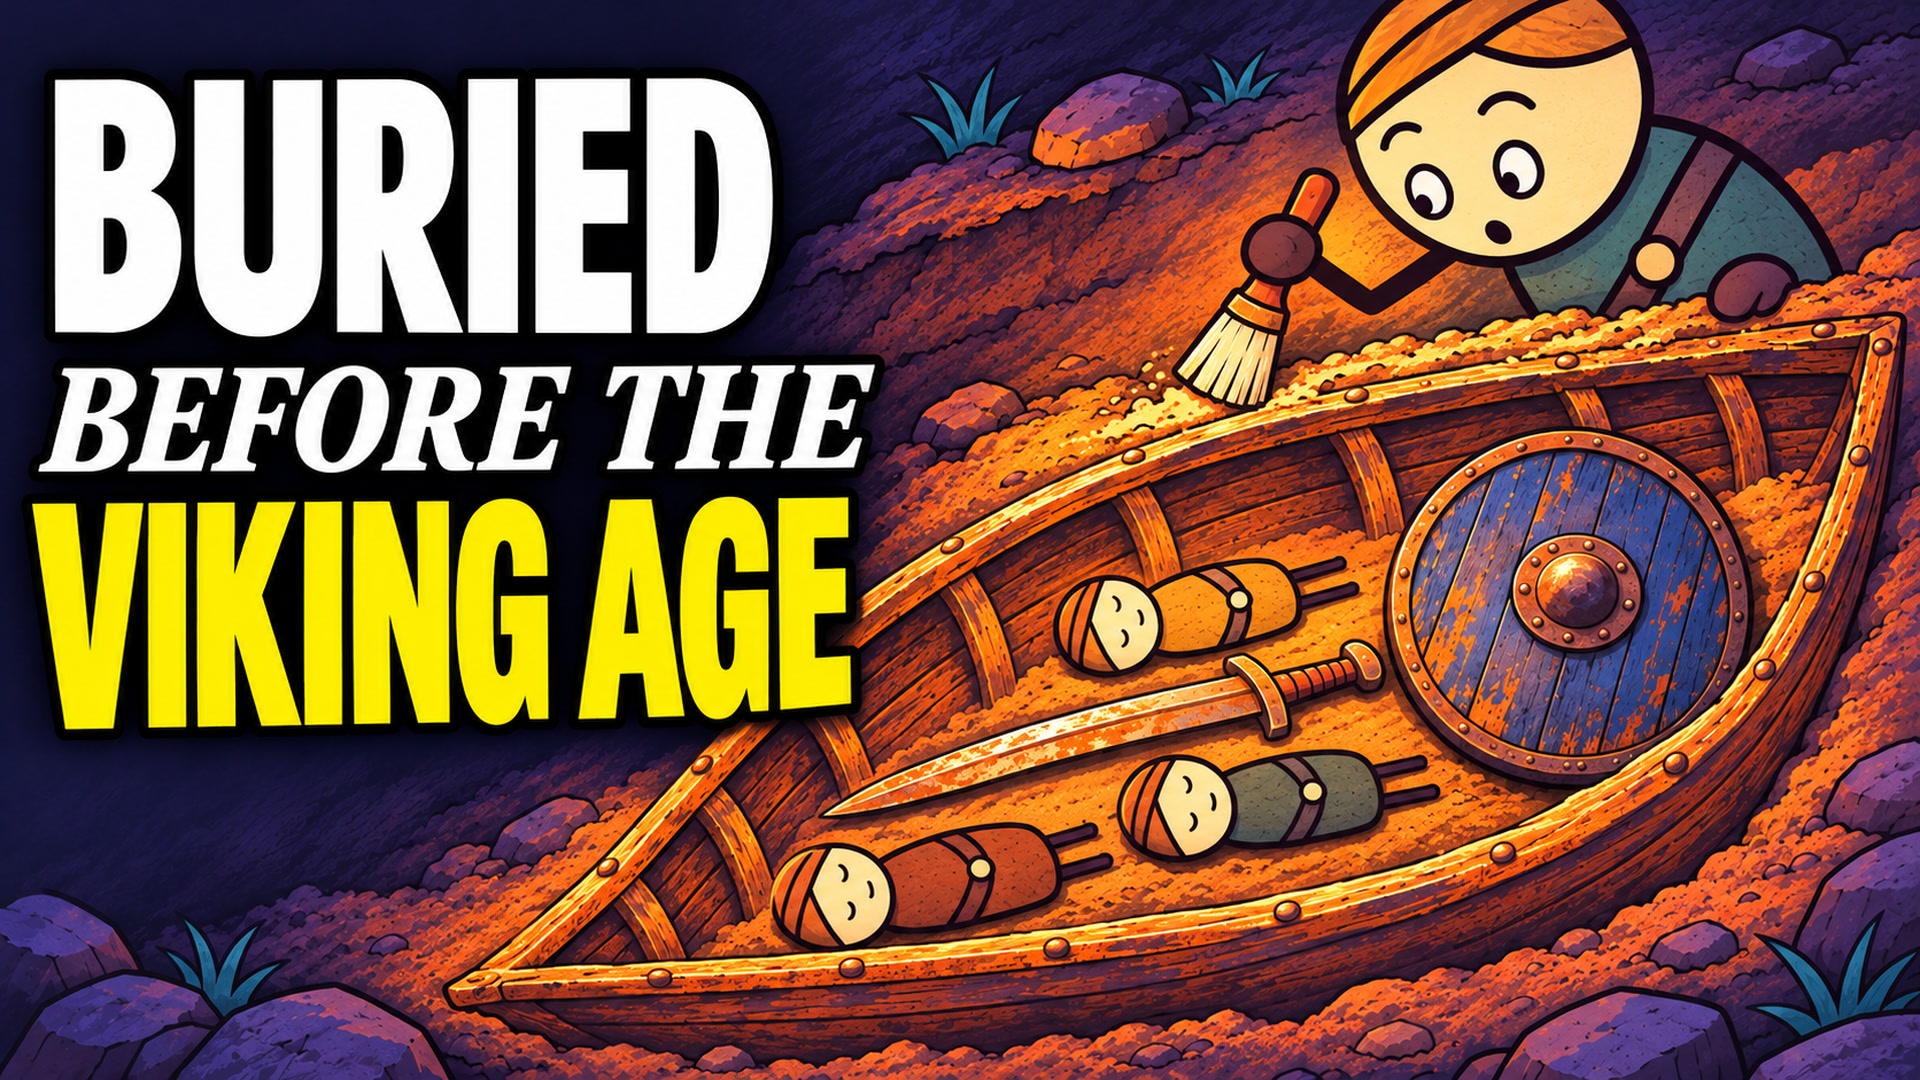
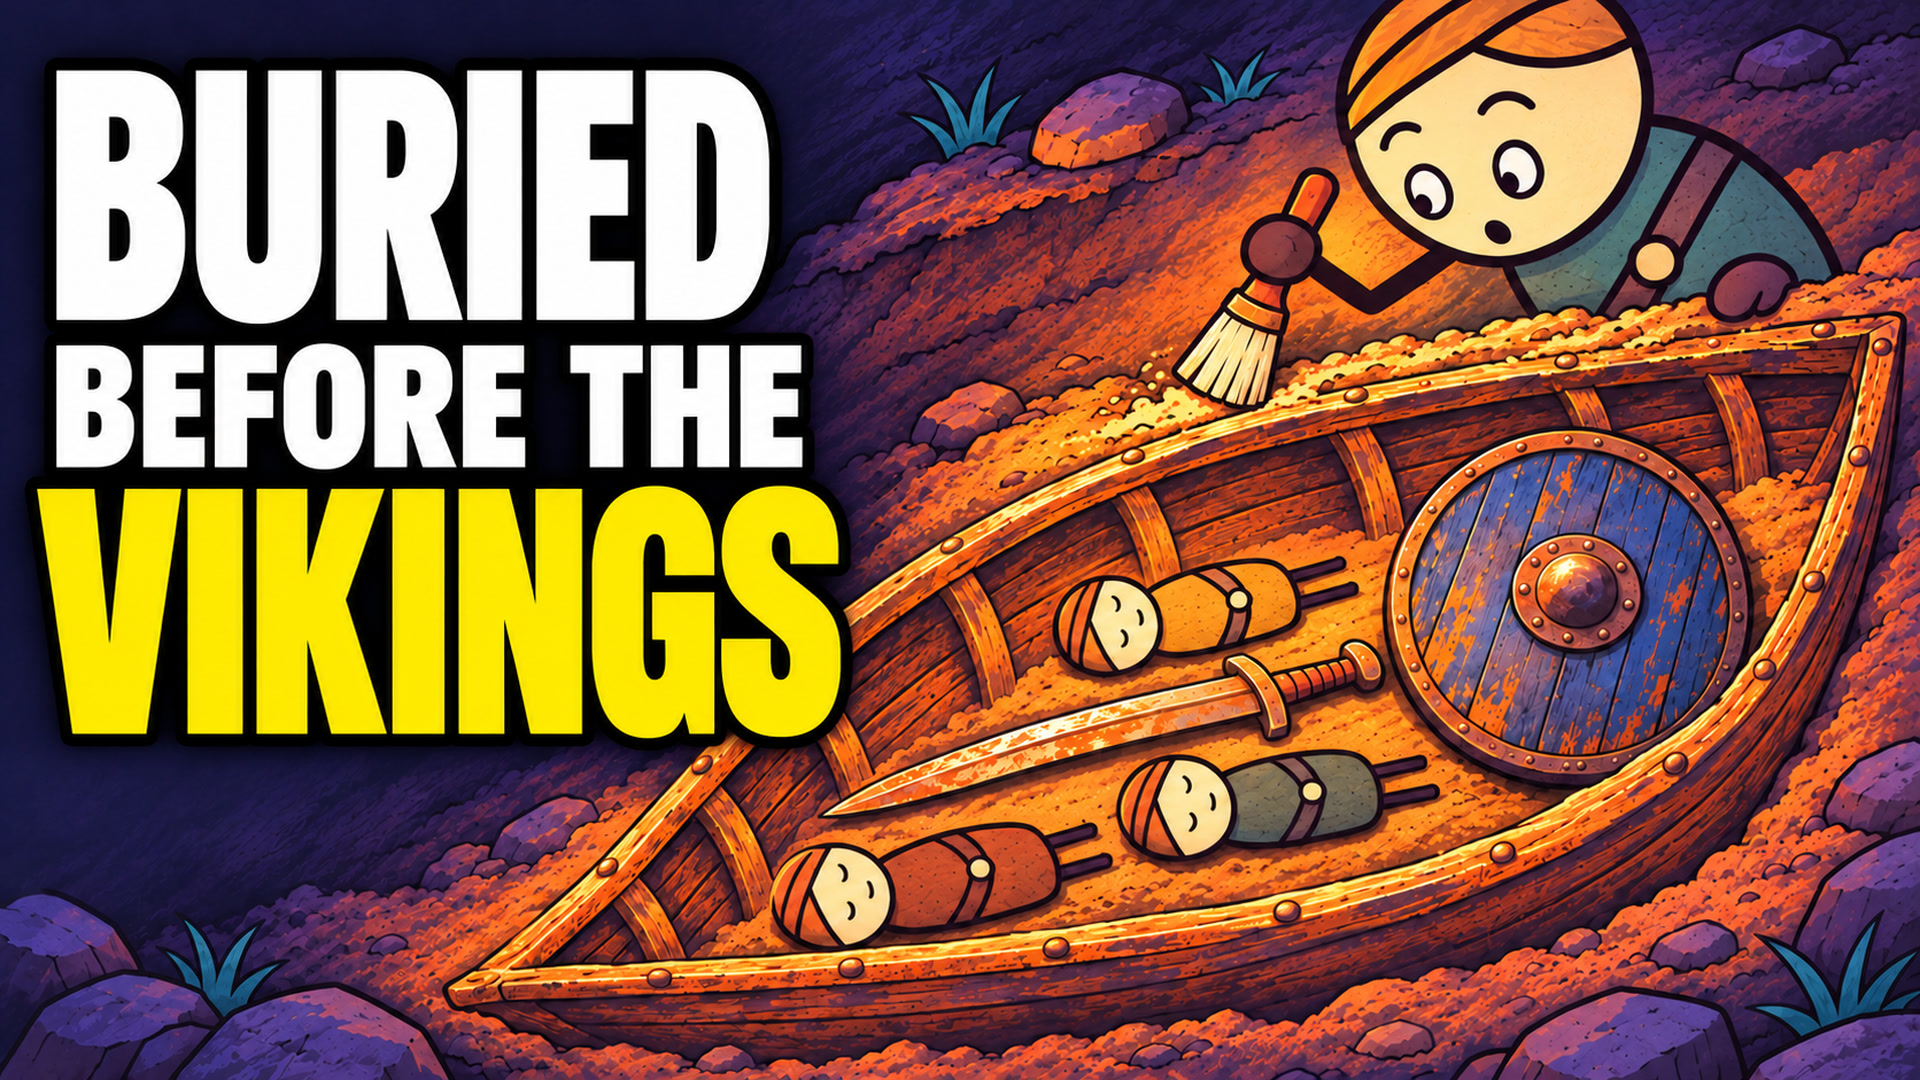
Use one font and requested wording on Salme thumbnail

diff --git a/videos/salme/preview/THUMBNAIL.md b/videos/salme/preview/THUMBNAIL.md
@@ -1,7 +1,7 @@
 # Salme thumbnail
 
-Caption: **BURIED BEFORE THE VIKING AGE**
+Caption: **BURIED BEFORE THE VIKINGS**
 
-Two contrasting type styles: heavy condensed sans-serif for BURIED and VIKING AGE, bold italic serif for BEFORE THE. White and yellow text with a black outline, matching the documentary palette. The enlarged ship burial and surprised cartoon archaeologist create the discovery focus.
+One consistent bold upright condensed sans-serif font across all words. White and yellow text with a black outline. Existing archaeological discovery artwork retained.
 
-Both exports are1920 ×1080. Use [the JPG](Salme_Thumbnail.jpg) for YouTube; it is under2 MB. [PNG master](Salme_Thumbnail.png).
+Exports:1920 ×1080. [YouTube JPG under2 MB](Salme_Thumbnail.jpg) · [PNG master](Salme_Thumbnail.png).
